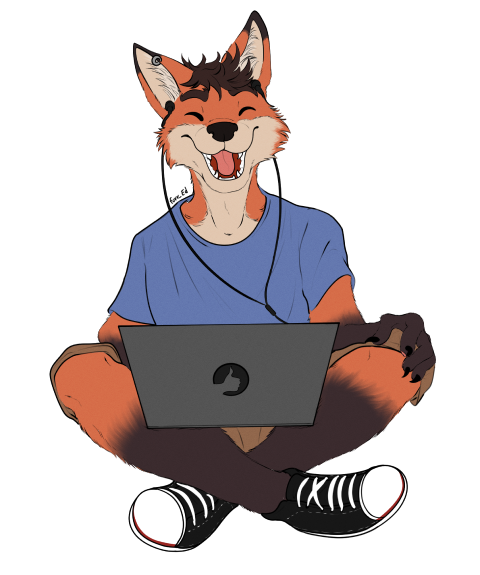
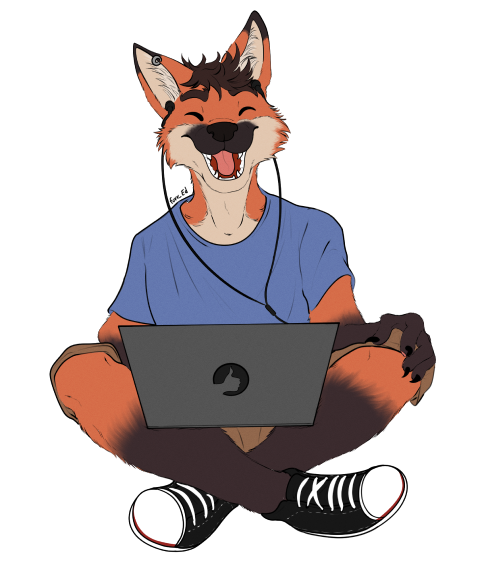
Fursona atualizado finalmente

Changed region(s): [[0.375, 0.207, 0.5312, 0.2661]]

diff --git a/src/components/About/index.js b/src/components/About/index.js
@@ -16,7 +16,8 @@ const CurrentlyPlaying = () => {
 
     return (
         <Song href={lastFM.song.url}>
-            <FontAwesomeIcon icon={faCompactDisc} color={lastFM.song.artist === 'Queen' ? colors.yellow : colors.white} fixedWidth pulse/>
+            <FontAwesomeIcon icon={faCompactDisc} color={lastFM.song.artist === 'Queen' ? colors.yellow : colors.white}
+                             fixedWidth pulse/>
             <p>
                 Ouvindo <b>{lastFM.song.name}</b> de <b>{lastFM.song.artist}</b>.
             </p>
